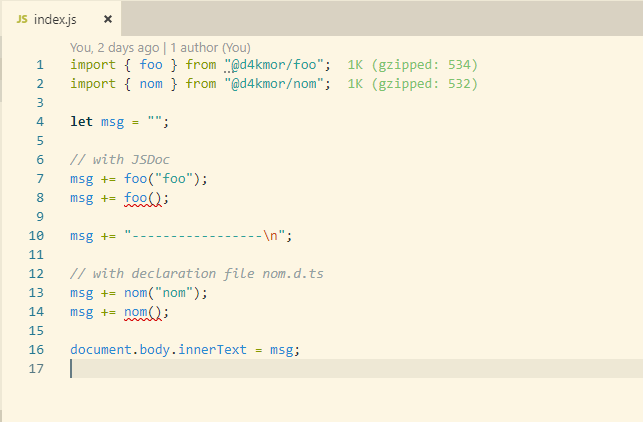
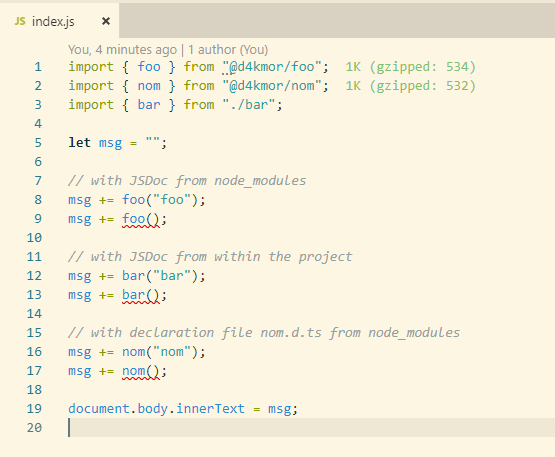
chore: improve examples

diff --git a/README.md b/README.md
@@ -2,29 +2,30 @@
 
 Setup:
 ```bash
-git clone ...
+git clone https://github.com/daKmoR/jsdoc-intellisense.git
 cd jsdoc-intellisense
 yarn install
 ```
 
 ## Live linting via IDE
 
-Works perfectly fine when using a `jsconfig.json`.
+Works perfectly fine when using a [jsconfig.json](https://github.com/daKmoR/jsdoc-intellisense/blob/master/jsconfig.json).
 <img src="./assets/jsconfigOnly.png" />
 
-JsDocs only linting stops if a `tsconfig.json` exists.
+JsDocs only linting stops if a [tsconfig.json](https://github.com/daKmoR/jsdoc-intellisense/blob/master/tsconfig.json) exists.
 <img src="./assets/tsconfigAsWell.png" />
 
 
 ## Linting to be used in a CI
 
-Typescript ignores JsDoc types from node_modules.
+Typescript ignores JsDoc types from node_modules.<br>
 JsDoc types from files within the repository are fine.
 
 Run
 ```bash
 tsc
 ```
+Note: Using a [tsconfig.json](https://github.com/daKmoR/jsdoc-intellisense/blob/master/tsconfig.json) or providing the needed parameters via cli did not make a difference.
 
 ### Expected
 
